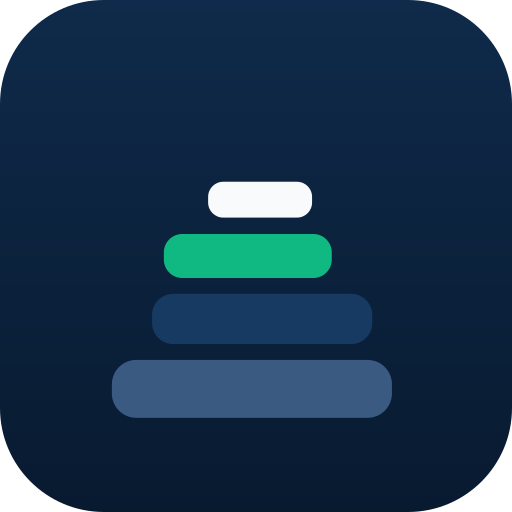
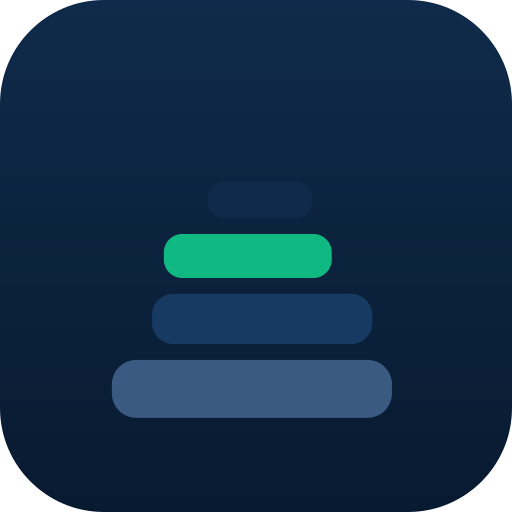
fix(sidebar): correct CairnMark top rect fill to dark navy (#201)
* fix(sidebar): correct CairnMark top rect fill to #0F2A4A (dark navy)

The topmost rectangle was #F8FAFC (near-white) instead of #0F2A4A per design.

* fix(auth): replace cairn-icon.svg img with inline CairnMark SVG

Auth pages (sign in / sign up) were rendering the icon via the SVG
image file which had an opaque dark background — inconsistent with
the sidebar's transparent inline mark. Switch to the same inline
CairnMark component with the correct #0F2A4A top rectangle color.
Preserves data-testid="brand-mark" for E2E test compatibility.

* fix(icons): correct CairnMark top rect to #0F2A4A in SVG sources and regenerate PNGs

Updates both cairn-icon.svg and cairn-icon-transparent.svg, then
regenerates favicon-32.png, icon-192.png, icon-512.png, and
apple-touch-icon.png via scripts/gen-icons.mjs (sharp).

* fix(favicon): use transparent SVG for browser favicon, regenerate all icon assets

favicon-32.png and favicon.ico now render without the dark navy
rounded-square background (using cairn-icon-transparent.svg as source).
PWA manifest icons (icon-192, icon-512, apple-touch-icon) retain the
opaque dark-background version as expected for home-screen app icons.

---------

Changed region(s): [[0.4062, 0.3438, 0.625, 0.4375]]

diff --git a/app/auth/AuthLayout.tsx b/app/auth/AuthLayout.tsx
@@ -1,6 +1,18 @@
 // Shared layout for auth pages (login / signup).
 // Centered single-column: Cairn logo above the form card.
 
+function CairnMark({ size = 32, testId }: { size?: number; testId?: string }) {
+  const h = Math.round(size * 0.85)
+  return (
+    <svg width={size} height={h} viewBox="110 180 283 240" xmlns="http://www.w3.org/2000/svg" style={{ flexShrink: 0 }} data-testid={testId}>
+      <rect x="111.872" y="359.936" width="280.064" height="57.856" rx="24.3" fill="#3B5A82"/>
+      <rect x="152.064" y="293.888" width="220.16" height="50.176" rx="21.07" fill="#163A61"/>
+      <rect x="163.84" y="233.984" width="167.936" height="44.032" rx="18.49" fill="#10B981"/>
+      <rect x="208.128" y="181.76" width="103.936" height="35.84" rx="15.05" fill="#0F2A4A"/>
+    </svg>
+  )
+}
+
 export function AuthLayout({ children }: { children: React.ReactNode }) {
   return (
     <div
@@ -25,15 +37,7 @@ export function AuthLayout({ children }: { children: React.ReactNode }) {
       >
         {/* Cairn logo */}
         <div style={{ display: 'flex', alignItems: 'center', gap: 10, marginBottom: 8 }}>
-          {/* eslint-disable-next-line @next/next/no-img-element */}
-          <img
-            data-testid="brand-mark"
-            src="/cairn-icon.svg"
-            alt="Cairn"
-            width={36}
-            height={36}
-            style={{ borderRadius: 9, flexShrink: 0 }}
-          />
+          <CairnMark size={32} testId="brand-mark" />
           <span
             style={{
               fontSize: 22,

diff --git a/app/components/navigation/Sidebar.tsx b/app/components/navigation/Sidebar.tsx
@@ -14,7 +14,7 @@ function CairnMark({ size = 28 }: { size?: number }) {
       <rect x="111.872" y="359.936" width="280.064" height="57.856" rx="24.3" fill="#3B5A82"/>
       <rect x="152.064" y="293.888" width="220.16" height="50.176" rx="21.07" fill="#163A61"/>
       <rect x="163.84" y="233.984" width="167.936" height="44.032" rx="18.49" fill="#10B981"/>
-      <rect x="208.128" y="181.76" width="103.936" height="35.84" rx="15.05" fill="#F8FAFC"/>
+      <rect x="208.128" y="181.76" width="103.936" height="35.84" rx="15.05" fill="#0F2A4A"/>
     </svg>
   )
 }
